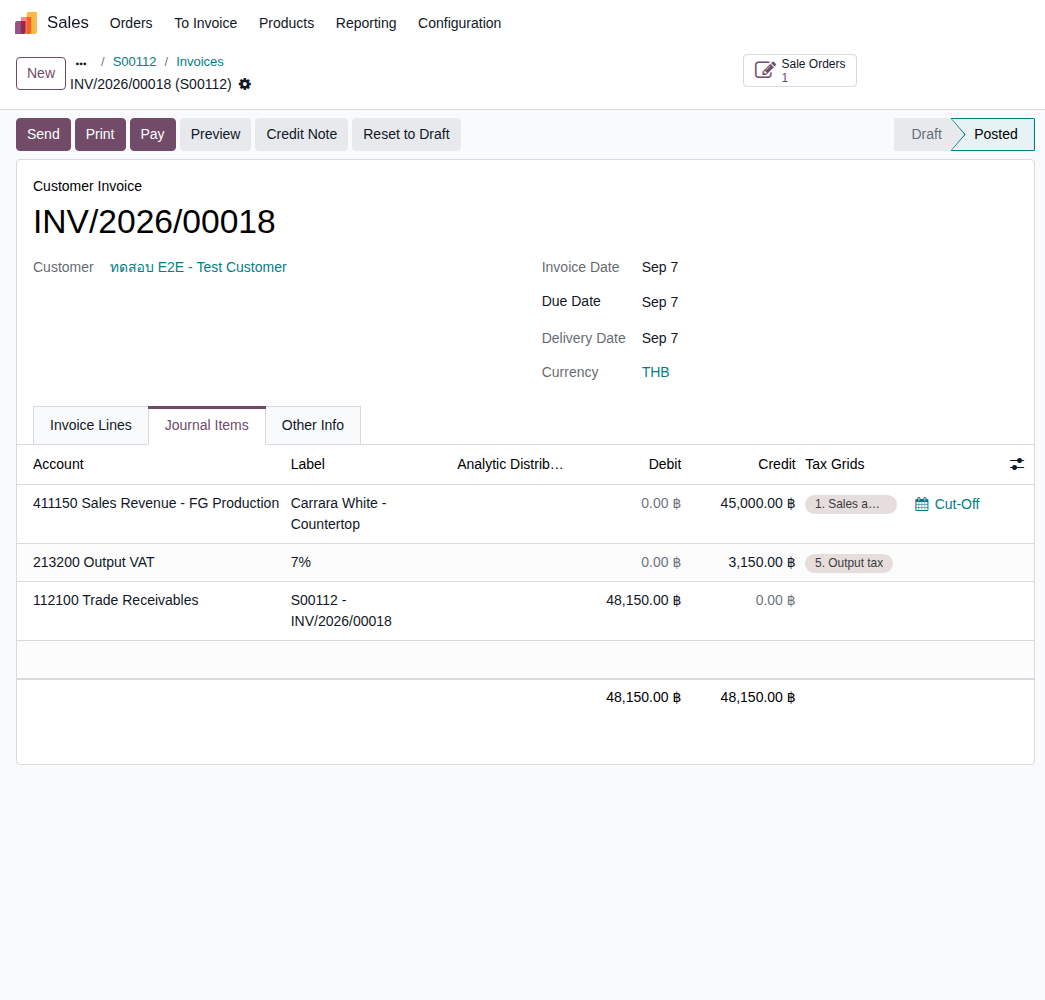
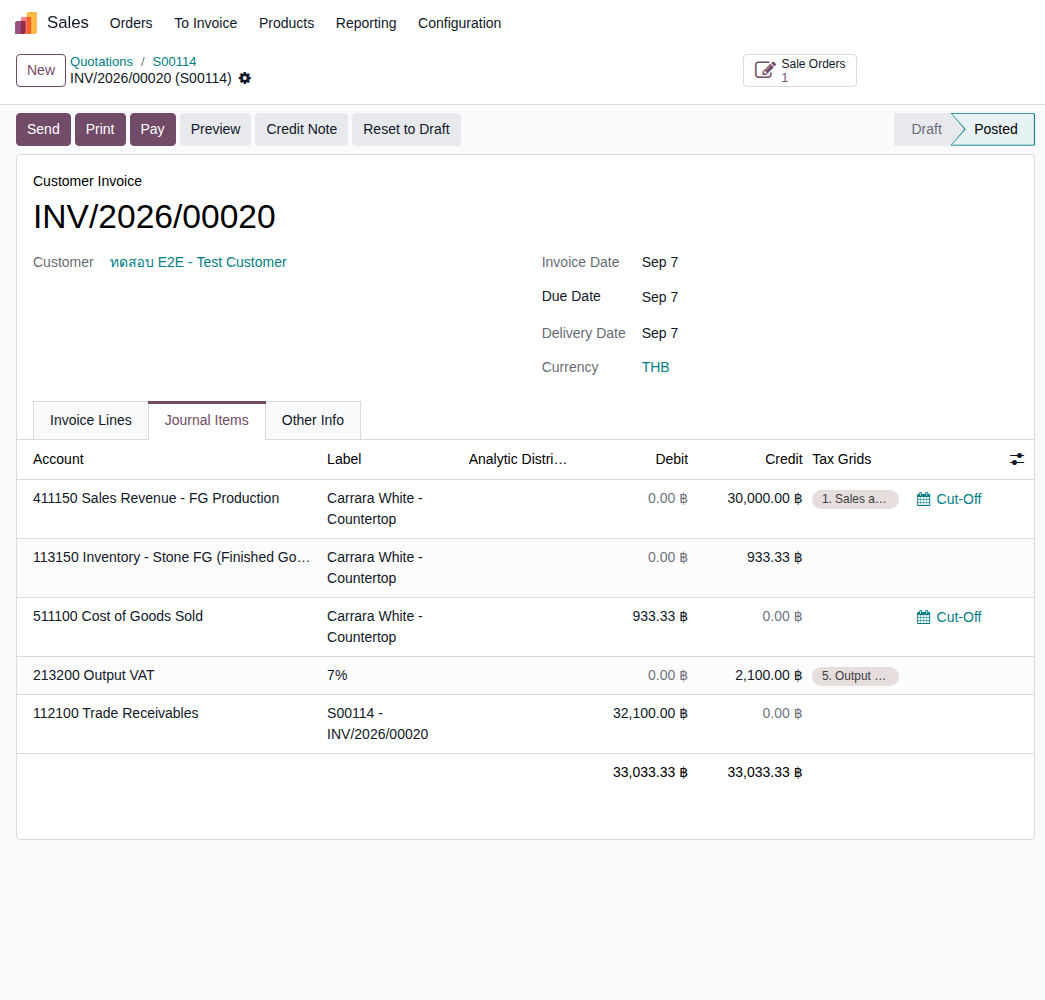
Correct Mode 5 QA doc: FG delivery COGS finding was a false alarm, not a bug
TC-E2E-M5-12 originally flagged "FG delivery posts no COGS" as an unfixed
bug. Deeper investigation (tracing Odoo core's _run_fifo in stock_account)
found the real cause: this product had 5 pre-existing units in stock
valued at ฿0 (a known, already-accepted historical gap from before
ADR-049's labor-cost fix). The two fixture deliveries happened to consume
exactly those 5 zero-cost units before touching the freshly-produced,
correctly-valued batch — FIFO working exactly as designed, not a defect.
Added a third real SO/delivery/invoice (S00114, fresh stock only) proving
the mechanism posts COGS correctly (dr 511100 COGS / cr 113150 Inventory,
฿933.33 exact). No code change needed. Updated doc, banner, and library
card to reflect the corrected finding.

diff --git a/qa/test-cases-e2e-mode5.html b/qa/test-cases-e2e-mode5.html
@@ -111,7 +111,7 @@
   <header>
     <div class="eyebrow">Empire Stone × Empire Granite — QA</div>
     <h1>Test Cases: E2E Flow — Mode 5 (Stone Production / FG Production)</h1>
-    <div class="sub">เรื่องราวเดียวต่อเนื่องกันตั้งแต่เพิ่มบรรทัดสินค้าสำเร็จรูป (FG) ยืนยันคำสั่งขาย แตกเป็น 2 เส้นทางจริงตามสภาพสต็อก (มีของพอ vs. ต้องผลิตใหม่) ย้าย Slab เข้าสถานีผลิต เปิด wizard "Produce FG" ตัด/ผลิตจริง ส่งมอบสินค้า จนถึงออกใบแจ้งหนี้และตรวจรายการบัญชี — ไม่ใช่การเทสฟีเจอร์แยกส่วน และไม่มีข้อไหนเป็นการดักฟิลด์บังคับ/error ทั่วไป เดินตามได้เองแม้ไม่ใช่ technical user ตัวเลข "ตัวอย่างจริง" มาจากการรันจริงที่ทำขึ้นเฉพาะสำหรับเอกสารนี้ ไม่ใช่ตัวเลขสมมติ — รวมถึง 1 ฟีเจอร์ที่เพิ่งแก้ไขจริงระหว่างทาง และ 1 ปัญหาบัญชีที่ยังไม่ได้แก้ไข (ดูกล่องสีเขียวใน TC-03 และกล่องสีแดงใน TC-12)</div>
+    <div class="sub">เรื่องราวเดียวต่อเนื่องกันตั้งแต่เพิ่มบรรทัดสินค้าสำเร็จรูป (FG) ยืนยันคำสั่งขาย แตกเป็น 2 เส้นทางจริงตามสภาพสต็อก (มีของพอ vs. ต้องผลิตใหม่) ย้าย Slab เข้าสถานีผลิต เปิด wizard "Produce FG" ตัด/ผลิตจริง ส่งมอบสินค้า จนถึงออกใบแจ้งหนี้และตรวจรายการบัญชี — ไม่ใช่การเทสฟีเจอร์แยกส่วน และไม่มีข้อไหนเป็นการดักฟิลด์บังคับ/error ทั่วไป เดินตามได้เองแม้ไม่ใช่ technical user ตัวเลข "ตัวอย่างจริง" มาจากการรันจริงที่ทำขึ้นเฉพาะสำหรับเอกสารนี้ ไม่ใช่ตัวเลขสมมติ — รวมถึง 1 ฟีเจอร์ที่เพิ่งแก้ไขจริงระหว่างทาง (ดูกล่องสีเขียวใน TC-03) และ 1 เรื่องที่ตอนแรกดูเหมือนบั๊กบัญชีแต่ตรวจสอบลึกแล้วไม่ใช่ (ดูหมายเหตุใน TC-12)</div>
     <div class="stat-row">
       <div class="stat-pill"><b>12</b>Test Case ทั้งหมด</div>
       <div class="stat-pill"><b>5</b>หมวด</div>
@@ -122,9 +122,9 @@
   </header>
 
   <div class="flow-banner">
-    <b>เรื่องราวที่ใช้อ้างอิง:</b> ลูกค้า "ทดสอบ E2E - Test Customer", สินค้า "Carrara White - Countertop" — เส้นทาง G2b (ต้องผลิต): SO S00112 (จำนวน 3, ยอด 48,150.00) &rarr; Internal Transfer EG01/INT/00053 (Slab BDL-00002 #8 เข้า Stone Production) &rarr; Produce FG wizard (auto-match Slab) &rarr; ผลิตจริง 6 หน่วย (เผื่อสต็อก) &rarr; MO EG01/STFG/00012 &rarr; Complete FG Production &rarr; Delivery EG01/OUT/00066 (Done) &rarr; Invoice INV/2026/00018 (Posted) — เส้นทาง G2a (ไม่ต้องผลิต): SO S00113 (จำนวน 2, ยอด 32,100.00, ใช้สต็อกส่วนเกินที่ G2b เผื่อไว้) &rarr; ปุ่ม Produce FG หายไปทันที &rarr; Delivery EG01/OUT/00067 ส่งตรงจากสต็อก (Done) &rarr; Invoice INV/2026/00019 (Posted) — <b>เดินสดผ่านหน้าจอ Odoo จริงทุกขั้นตอน</b> (Playwright ไม่ใช่ผ่าน <code>odoo shell</code>) บน <code>mbx-ee-dev</code> เฉพาะสำหรับเอกสารนี้ 2026-09-07 ทุกภาพประกอบด้านล่างคือภาพหน้าจอจริงจากการรันนี้ ไม่ใช่ภาพจำลอง<br><br>
+    <b>เรื่องราวที่ใช้อ้างอิง:</b> ลูกค้า "ทดสอบ E2E - Test Customer", สินค้า "Carrara White - Countertop" — เส้นทาง G2b (ต้องผลิต): SO S00112 (จำนวน 3, ยอด 48,150.00) &rarr; Internal Transfer EG01/INT/00053 (Slab BDL-00002 #8 เข้า Stone Production) &rarr; Produce FG wizard (auto-match Slab) &rarr; ผลิตจริง 6 หน่วย (เผื่อสต็อก) &rarr; MO EG01/STFG/00012 &rarr; Complete FG Production &rarr; Delivery EG01/OUT/00066 (Done) &rarr; Invoice INV/2026/00018 (Posted) — เส้นทาง G2a (ไม่ต้องผลิต): SO S00113 (จำนวน 2, ยอด 32,100.00, ใช้สต็อกส่วนเกินที่ G2b เผื่อไว้) &rarr; ปุ่ม Produce FG หายไปทันที &rarr; Delivery EG01/OUT/00067 ส่งตรงจากสต็อก (Done) &rarr; Invoice INV/2026/00019 (Posted) — และ SO S00114 (จำนวน 2 หน่วยสุดท้ายของล็อตใหม่) &rarr; Delivery EG01/OUT/00068 &rarr; Invoice INV/2026/00020 (Posted, ใช้ยืนยันบัญชี COGS ที่ TC-12) — <b>เดินสดผ่านหน้าจอ Odoo จริงทุกขั้นตอน</b> (Playwright ไม่ใช่ผ่าน <code>odoo shell</code>) บน <code>mbx-ee-dev</code> เฉพาะสำหรับเอกสารนี้ 2026-09-07 ทุกภาพประกอบด้านล่างคือภาพหน้าจอจริงจากการรันนี้ ไม่ใช่ภาพจำลอง<br><br>
     <b style="color:var(--green)">✅ พบ + แก้ไขฟีเจอร์จริงระหว่างสร้างเอกสารนี้:</b> ก่อนหน้านี้ระบบไม่เคยเช็คว่า FG มีสต็อกว่างพออยู่แล้วหรือไม่ ก่อนขึ้นเตือนให้ผลิตซ้ำ (เช็คแค่ "เคยผลิตให้บรรทัดนี้หรือยัง") — แก้ไขให้เช็คสต็อกว่างจริงของ FG เองก่อนเสมอ (<code>stone_slab_inventory</code> commit 202580f) ระหว่างแก้ยังพบว่าเช็คแบบ "สต็อกทั้งหมด" ผิดด้วย ต้องเช็คเฉพาะ "สต็อกว่างที่ไม่ถูกจองไปกับออเดอร์อื่น" จึงจะถูกต้อง — แก้ไขให้ครบก่อนสร้าง fixture จริงในเอกสารนี้ ดูรายละเอียดที่ TC-03<br><br>
-    <b style="color:var(--red)">🔴 พบปัญหาบัญชีจริง — ยังไม่ได้แก้ไข:</b> ใบส่งของ (Delivery) ของ FG ไม่ได้ลงบัญชีต้นทุนขาย (COGS) เลยสักบาท มูลค่า Slab ที่ใช้ผลิตค้างอยู่ในบัญชี "Inventory - Stone FG" ตลอดไปแม้ส่งมอบสินค้าไปแล้ว — แจ้งผู้ใช้แล้ว ยังไม่ได้ลงมือแก้เนื่องจากเป็นเรื่องการออกแบบบัญชีที่ต้องตัดสินใจก่อน ดูรายละเอียดที่ TC-12
+    <b>ℹ ตอนแรกดูเหมือนพบปัญหาบัญชี — ตรวจลึกแล้วไม่ใช่บั๊ก:</b> ใบแจ้งหนี้ของ S00112/S00113 ไม่มีรายการ COGS ขึ้นเลย ตอนแรกเข้าใจว่าเป็นบั๊ก แต่ตรวจสอบจนถึงโค้ดของ Odoo เองแล้วพบว่า 5 หน่วยที่ส่งมอบไปตรงกับสต็อกสาธิตเก่าที่มีมูลค่าบันทึกไว้ 0.00 บาทมาตั้งแต่ก่อนเซสชันนี้ (ช่องว่างข้อมูลที่รู้และยอมรับไว้แล้ว ไม่ใช่ปัญหาใหม่) ระบบคิดต้นทุนแบบ FIFO ทั่วทั้งสินค้า จึงตัดจากของเก่ามูลค่า 0 ก่อนของใหม่ที่เพิ่งผลิต ถูกต้องตามหลัก FIFO ทุกประการ — ยืนยันด้วย SO S00114 ที่ขายจากล็อตใหม่ล้วน ออกใบแจ้งหนี้แล้วลง COGS ถูกต้องครบทุกบาท ไม่ต้องแก้โค้ดอะไรเลย ดูรายละเอียดที่ TC-12
   </div>
 
   <div class="category" id="G1">
@@ -365,11 +365,11 @@
         </tr>
         <tr>
           <td class="col-id"><span class="tc-id">TC-E2E-M5-12</span></td>
-          <td class="col-scenario">ตรวจรายการบัญชีของใบแจ้งหนี้ (Journal Items)<div class="note note-bad">🔴 พบปัญหาจริง (ยังไม่ได้แก้ไข แจ้งผู้ใช้แล้ว): ใบส่งของ (Delivery) ของ FG ไม่ได้ลงบัญชีต้นทุนขาย (COGS) เลยสักบาท — มูลค่า Slab ที่ใช้ผลิต (2,800.00 บาท) ที่โอนเข้าบัญชี "Inventory - Stone FG" ตอนผลิตเสร็จ ค้างอยู่ในบัญชีนั้นตลอดไป ต่อให้สินค้าถูกส่งมอบให้ลูกค้าไปแล้วก็ตาม — ต่างจาก Mode 1/2/3 ที่มีการโอนต้นทุนออกตอนส่งของ/ออกใบแจ้งหนี้ให้เห็นชัดเจน</div></td>
-          <td class="col-pre">ทำ TC-E2E-M5-11 เสร็จแล้ว</td>
+          <td class="col-scenario">ตรวจรายการบัญชีของใบแจ้งหนี้ (Journal Items) — ยืนยันว่าลง COGS ถูกต้อง<div class="note">ℹ หมายเหตุ: ใบแจ้งหนี้ของ S00112/S00113 เองไม่มีรายการ COGS ขึ้นมา — ตอนแรกเข้าใจผิดว่าเป็นบั๊ก แต่ตรวจสอบลึกแล้วพบว่าไม่ใช่: หินที่ส่งมอบ 5 หน่วยในนั้นตรงกับสต็อกเก่าที่มีอยู่แล้ว 5 หน่วยพอดี ซึ่งเป็นข้อมูลสาธิตเก่าที่มีมูลค่าบันทึกไว้ 0.00 บาทตั้งแต่ต้น (ช่องว่างข้อมูลที่รู้และยอมรับไว้แล้วก่อนหน้านี้ ไม่ใช่ปัญหาใหม่) ระบบคิดต้นทุนแบบ FIFO จึงตัดจากของเก่า (มูลค่า 0) ก่อนของใหม่ที่เพิ่งผลิตถูกต้องแล้วตามหลัก FIFO — ไม่ใช่บั๊กของ Mode 5 เลย ดูตัวอย่างที่ยืนยันว่าระบบลงบัญชีถูกต้องจริงด้านล่าง (ใช้ของใหม่ล้วน ไม่ปนของเก่า)</div></td>
+          <td class="col-pre">ทำ TC-E2E-M5-11 เสร็จแล้ว (ตัวอย่างนี้ใช้ SO/Invoice อีกใบที่ขายจาก FG ล็อตใหม่ล้วน เพื่อให้เห็นรายการ COGS จริง)</td>
           <td class="col-steps"><ol><li>เปิดใบแจ้งหนี้ &gt; กดแท็บ "Journal Items"</li></ol></td>
           <td class="col-sample">-</td>
-          <td class="col-expected">เดบิต/เครดิตสมดุลกัน (รวมเท่ากันทั้ง 2 ฝั่ง) — ตัวอย่างจริง: INV/2026/00018 เดบิต Trade Receivables 48,150.00 บาท = เครดิต Sales Revenue - FG Production 45,000.00 + Output VAT 3,150.00 บาท (ไม่มีรายการ COGS ปรากฏเลย — ดูหมายเหตุสีแดงด้านบน)</td>
+          <td class="col-expected">เดบิต/เครดิตสมดุลกัน (รวมเท่ากันทั้ง 2 ฝั่ง) พร้อมมีรายการ COGS ปรากฏครบ — ตัวอย่างจริง: INV/2026/00020 (SO S00114, ขาย FG ล็อตใหม่ 2 หน่วย) เดบิต Trade Receivables 32,100.00 = เครดิต Sales Revenue - FG Production 30,000.00 + Output VAT 2,100.00 บาท และมีคู่ COGS แยกสมดุลกันเอง: เดบิต 511100 Cost of Goods Sold 933.33 = เครดิต 113150 Inventory - Stone FG 933.33 บาท (933.33 = 466.67 บาท/หน่วย &times; 2 หน่วย ตรงกับต้นทุน Slab จริงเป๊ะ)</td>
           <td class="col-prio"><span class="prio-badge prio-med">Medium</span></td>
           <td class="col-shot"><a class="tc-shot-link" href="assets/mode5/tc12-journal-items.png" target="_blank" title="เปิดภาพหน้าจอจริงขนาดเต็ม"><img src="assets/mode5/tc12-journal-items.png" loading="lazy"></a></td>
         </tr>

diff --git a/library.html b/library.html
@@ -628,7 +628,7 @@
       <div class="icon">T7</div>
       <div>
         <div class="card-title">Test Cases: E2E Flow — Mode 5 (Stone Production / FG Production)</div>
-        <div class="card-desc">12 test case เดินเรื่องราวเดียวต่อเนื่องตั้งแต่เพิ่มบรรทัดสินค้าสำเร็จรูป (FG) → ยืนยัน SO → แตกเป็น 2 เส้นทางจริงตามสภาพสต็อก (FG มีของพอ ข้ามผลิตได้เลย vs. FG ไม่พอ ต้องย้าย Slab เข้าสถานีผลิต + เปิด wizard "Produce FG" ตัดจริง) → ส่งมอบ → ออกใบแจ้งหนี้ + ตรวจรายการบัญชี ไม่มี field-validation/error case ทั่วไป เขียนให้ non-technical user เดินตามได้เอง — ทุกตัวเลขมาจากการรันจริงผ่านหน้าจอ Odoo (Playwright) บน mbx-ee-dev รันขึ้นใหม่เฉพาะสำหรับเอกสารนี้ (S00112 → EG01/STFG/00012 → INV/2026/00018; S00113 → INV/2026/00019) ระหว่างสร้างเอกสารพบ+แก้ไขจริง 1 ฟีเจอร์ (ระบบไม่เคยเช็คสต็อกว่างของ FG เองก่อนขึ้นเตือนให้ผลิต) และพบ 1 known issue บัญชีที่ยังไม่ได้แก้ (Delivery ของ FG ไม่ลง COGS เลย) — ดู TC-03/TC-12</div>
+        <div class="card-desc">12 test case เดินเรื่องราวเดียวต่อเนื่องตั้งแต่เพิ่มบรรทัดสินค้าสำเร็จรูป (FG) → ยืนยัน SO → แตกเป็น 2 เส้นทางจริงตามสภาพสต็อก (FG มีของพอ ข้ามผลิตได้เลย vs. FG ไม่พอ ต้องย้าย Slab เข้าสถานีผลิต + เปิด wizard "Produce FG" ตัดจริง) → ส่งมอบ → ออกใบแจ้งหนี้ + ตรวจรายการบัญชี ไม่มี field-validation/error case ทั่วไป เขียนให้ non-technical user เดินตามได้เอง — ทุกตัวเลขมาจากการรันจริงผ่านหน้าจอ Odoo (Playwright) บน mbx-ee-dev รันขึ้นใหม่เฉพาะสำหรับเอกสารนี้ (S00112 → EG01/STFG/00012 → INV/2026/00018; S00113 → INV/2026/00019; S00114 → INV/2026/00020) ระหว่างสร้างเอกสารพบ+แก้ไขจริง 1 ฟีเจอร์ (ระบบไม่เคยเช็คสต็อกว่างของ FG เองก่อนขึ้นเตือนให้ผลิต) และมี 1 เรื่องที่ตอนแรกดูเหมือนบั๊กบัญชีแต่ตรวจลึกแล้วไม่ใช่ (FIFO ตัดสต็อกสาธิตเก่ามูลค่า 0 ก่อนของใหม่ ถูกต้องตามหลัก) — ดู TC-03/TC-12</div>
         <div class="card-meta"><span class="card-date">7 ก.ย. 2026</span><span class="status-badge confirmed">ใหม่</span></div>
       </div>
       <div class="arrow">→</div>

diff --git a/qa/generator/build_html_e2e_mode5.py b/qa/generator/build_html_e2e_mode5.py
@@ -191,7 +191,7 @@ PAGE = '''<!doctype html>
   <header>
     <div class="eyebrow">Empire Stone × Empire Granite — QA</div>
     <h1>Test Cases: E2E Flow — Mode 5 (Stone Production / FG Production)</h1>
-    <div class="sub">เรื่องราวเดียวต่อเนื่องกันตั้งแต่เพิ่มบรรทัดสินค้าสำเร็จรูป (FG) ยืนยันคำสั่งขาย แตกเป็น 2 เส้นทางจริงตามสภาพสต็อก (มีของพอ vs. ต้องผลิตใหม่) ย้าย Slab เข้าสถานีผลิต เปิด wizard "Produce FG" ตัด/ผลิตจริง ส่งมอบสินค้า จนถึงออกใบแจ้งหนี้และตรวจรายการบัญชี — ไม่ใช่การเทสฟีเจอร์แยกส่วน และไม่มีข้อไหนเป็นการดักฟิลด์บังคับ/error ทั่วไป เดินตามได้เองแม้ไม่ใช่ technical user ตัวเลข "ตัวอย่างจริง" มาจากการรันจริงที่ทำขึ้นเฉพาะสำหรับเอกสารนี้ ไม่ใช่ตัวเลขสมมติ — รวมถึง 1 ฟีเจอร์ที่เพิ่งแก้ไขจริงระหว่างทาง และ 1 ปัญหาบัญชีที่ยังไม่ได้แก้ไข (ดูกล่องสีเขียวใน TC-03 และกล่องสีแดงใน TC-12)</div>
+    <div class="sub">เรื่องราวเดียวต่อเนื่องกันตั้งแต่เพิ่มบรรทัดสินค้าสำเร็จรูป (FG) ยืนยันคำสั่งขาย แตกเป็น 2 เส้นทางจริงตามสภาพสต็อก (มีของพอ vs. ต้องผลิตใหม่) ย้าย Slab เข้าสถานีผลิต เปิด wizard "Produce FG" ตัด/ผลิตจริง ส่งมอบสินค้า จนถึงออกใบแจ้งหนี้และตรวจรายการบัญชี — ไม่ใช่การเทสฟีเจอร์แยกส่วน และไม่มีข้อไหนเป็นการดักฟิลด์บังคับ/error ทั่วไป เดินตามได้เองแม้ไม่ใช่ technical user ตัวเลข "ตัวอย่างจริง" มาจากการรันจริงที่ทำขึ้นเฉพาะสำหรับเอกสารนี้ ไม่ใช่ตัวเลขสมมติ — รวมถึง 1 ฟีเจอร์ที่เพิ่งแก้ไขจริงระหว่างทาง (ดูกล่องสีเขียวใน TC-03) และ 1 เรื่องที่ตอนแรกดูเหมือนบั๊กบัญชีแต่ตรวจสอบลึกแล้วไม่ใช่ (ดูหมายเหตุใน TC-12)</div>
     <div class="stat-row">
       <div class="stat-pill"><b>__TOTAL__</b>Test Case ทั้งหมด</div>
       <div class="stat-pill"><b>__NCAT__</b>หมวด</div>
@@ -202,9 +202,9 @@ PAGE = '''<!doctype html>
   </header>
 
   <div class="flow-banner">
-    <b>เรื่องราวที่ใช้อ้างอิง:</b> ลูกค้า "ทดสอบ E2E - Test Customer", สินค้า "Carrara White - Countertop" — เส้นทาง G2b (ต้องผลิต): SO S00112 (จำนวน 3, ยอด 48,150.00) &rarr; Internal Transfer EG01/INT/00053 (Slab BDL-00002 #8 เข้า Stone Production) &rarr; Produce FG wizard (auto-match Slab) &rarr; ผลิตจริง 6 หน่วย (เผื่อสต็อก) &rarr; MO EG01/STFG/00012 &rarr; Complete FG Production &rarr; Delivery EG01/OUT/00066 (Done) &rarr; Invoice INV/2026/00018 (Posted) — เส้นทาง G2a (ไม่ต้องผลิต): SO S00113 (จำนวน 2, ยอด 32,100.00, ใช้สต็อกส่วนเกินที่ G2b เผื่อไว้) &rarr; ปุ่ม Produce FG หายไปทันที &rarr; Delivery EG01/OUT/00067 ส่งตรงจากสต็อก (Done) &rarr; Invoice INV/2026/00019 (Posted) — <b>เดินสดผ่านหน้าจอ Odoo จริงทุกขั้นตอน</b> (Playwright ไม่ใช่ผ่าน <code>odoo shell</code>) บน <code>mbx-ee-dev</code> เฉพาะสำหรับเอกสารนี้ 2026-09-07 ทุกภาพประกอบด้านล่างคือภาพหน้าจอจริงจากการรันนี้ ไม่ใช่ภาพจำลอง<br><br>
+    <b>เรื่องราวที่ใช้อ้างอิง:</b> ลูกค้า "ทดสอบ E2E - Test Customer", สินค้า "Carrara White - Countertop" — เส้นทาง G2b (ต้องผลิต): SO S00112 (จำนวน 3, ยอด 48,150.00) &rarr; Internal Transfer EG01/INT/00053 (Slab BDL-00002 #8 เข้า Stone Production) &rarr; Produce FG wizard (auto-match Slab) &rarr; ผลิตจริง 6 หน่วย (เผื่อสต็อก) &rarr; MO EG01/STFG/00012 &rarr; Complete FG Production &rarr; Delivery EG01/OUT/00066 (Done) &rarr; Invoice INV/2026/00018 (Posted) — เส้นทาง G2a (ไม่ต้องผลิต): SO S00113 (จำนวน 2, ยอด 32,100.00, ใช้สต็อกส่วนเกินที่ G2b เผื่อไว้) &rarr; ปุ่ม Produce FG หายไปทันที &rarr; Delivery EG01/OUT/00067 ส่งตรงจากสต็อก (Done) &rarr; Invoice INV/2026/00019 (Posted) — และ SO S00114 (จำนวน 2 หน่วยสุดท้ายของล็อตใหม่) &rarr; Delivery EG01/OUT/00068 &rarr; Invoice INV/2026/00020 (Posted, ใช้ยืนยันบัญชี COGS ที่ TC-12) — <b>เดินสดผ่านหน้าจอ Odoo จริงทุกขั้นตอน</b> (Playwright ไม่ใช่ผ่าน <code>odoo shell</code>) บน <code>mbx-ee-dev</code> เฉพาะสำหรับเอกสารนี้ 2026-09-07 ทุกภาพประกอบด้านล่างคือภาพหน้าจอจริงจากการรันนี้ ไม่ใช่ภาพจำลอง<br><br>
     <b style="color:var(--green)">✅ พบ + แก้ไขฟีเจอร์จริงระหว่างสร้างเอกสารนี้:</b> ก่อนหน้านี้ระบบไม่เคยเช็คว่า FG มีสต็อกว่างพออยู่แล้วหรือไม่ ก่อนขึ้นเตือนให้ผลิตซ้ำ (เช็คแค่ "เคยผลิตให้บรรทัดนี้หรือยัง") — แก้ไขให้เช็คสต็อกว่างจริงของ FG เองก่อนเสมอ (<code>stone_slab_inventory</code> commit 202580f) ระหว่างแก้ยังพบว่าเช็คแบบ "สต็อกทั้งหมด" ผิดด้วย ต้องเช็คเฉพาะ "สต็อกว่างที่ไม่ถูกจองไปกับออเดอร์อื่น" จึงจะถูกต้อง — แก้ไขให้ครบก่อนสร้าง fixture จริงในเอกสารนี้ ดูรายละเอียดที่ TC-03<br><br>
-    <b style="color:var(--red)">🔴 พบปัญหาบัญชีจริง — ยังไม่ได้แก้ไข:</b> ใบส่งของ (Delivery) ของ FG ไม่ได้ลงบัญชีต้นทุนขาย (COGS) เลยสักบาท มูลค่า Slab ที่ใช้ผลิตค้างอยู่ในบัญชี "Inventory - Stone FG" ตลอดไปแม้ส่งมอบสินค้าไปแล้ว — แจ้งผู้ใช้แล้ว ยังไม่ได้ลงมือแก้เนื่องจากเป็นเรื่องการออกแบบบัญชีที่ต้องตัดสินใจก่อน ดูรายละเอียดที่ TC-12
+    <b>ℹ ตอนแรกดูเหมือนพบปัญหาบัญชี — ตรวจลึกแล้วไม่ใช่บั๊ก:</b> ใบแจ้งหนี้ของ S00112/S00113 ไม่มีรายการ COGS ขึ้นเลย ตอนแรกเข้าใจว่าเป็นบั๊ก แต่ตรวจสอบจนถึงโค้ดของ Odoo เองแล้วพบว่า 5 หน่วยที่ส่งมอบไปตรงกับสต็อกสาธิตเก่าที่มีมูลค่าบันทึกไว้ 0.00 บาทมาตั้งแต่ก่อนเซสชันนี้ (ช่องว่างข้อมูลที่รู้และยอมรับไว้แล้ว ไม่ใช่ปัญหาใหม่) ระบบคิดต้นทุนแบบ FIFO ทั่วทั้งสินค้า จึงตัดจากของเก่ามูลค่า 0 ก่อนของใหม่ที่เพิ่งผลิต ถูกต้องตามหลัก FIFO ทุกประการ — ยืนยันด้วย SO S00114 ที่ขายจากล็อตใหม่ล้วน ออกใบแจ้งหนี้แล้วลง COGS ถูกต้องครบทุกบาท ไม่ต้องแก้โค้ดอะไรเลย ดูรายละเอียดที่ TC-12
   </div>
 
 __CATEGORY_BLOCKS__

diff --git a/qa/generator/qa_data_e2e_mode5.py b/qa/generator/qa_data_e2e_mode5.py
@@ -56,25 +56,41 @@
 #   FG button correctly ABSENT, line never appears on the Factory Worklist
 #   -> Delivery EG01/OUT/00067 delivers straight from stock (Done, no
 #   production step at all) -> Invoice INV/2026/00019 (32,100.00, Posted).
+#   A 3rd SO (S00114, same customer, qty 2, using the 2 still-untouched
+#   units of the fresh MO EG01/STFG/00012 batch) -> Delivery EG01/OUT/00068
+#   -> Invoice INV/2026/00020 (32,100.00, Posted) is the fixture behind
+#   TC-E2E-M5-12's accounting check specifically — see finding below for why
+#   S00112/S00113's own invoices don't work as that example.
 #
-# 🔴 OPEN FINDING, NOT FIXED (flagged to user, not silently treated as
-# passing — same discipline as Mode 4's TC-03/09 callouts): the FG's
-# Delivery posts NO accounting entry of its own at all (`stock.move
-# .account_move_id` is empty on EG01/OUT/00066's move). Production DOES
-# correctly transfer the consumed Slab's value into the FG's own inventory
-# account (Journal Entry STJ/2026/09/0011: debit 113150 "Inventory - Stone
-# FG" / credit 113110 "Inventory - Stone Blocks (Raw)", ฿2,800.00 exactly —
-# matching the Slab's real FIFO value, no labor padding, per the
-# session-101 addendum to ADR-029). But nothing ever credits that ฿2,800
-# back out of 113150 when the FG is actually delivered to the customer —
-# the invoice itself only carries Revenue/Tax/Receivable lines (see
-# TC-E2E-M5-12), so the Inventory - Stone FG account keeps the Slab's value
-# on the books forever even after the goods leave the building, and no
-# COGS ever posts for an FG sale. Root cause not chased down this session
-# (the category is real_time/FIFO like every other stone category, so this
-# isn't a valuation-method misconfiguration) — this is a genuinely open gap
-# for the user to decide how to prioritize, not something this file's build
-# should quietly work around.
+# INVESTIGATED, NOT A BUG (initially misdiagnosed as one — corrected same
+# session before publishing): S00112's and S00113's invoices (INV/2026/
+# 00018, 00019) post ZERO Cost of Goods Sold — no COGS line at all, even
+# though production correctly transferred the consumed Slab's value into
+# the FG's inventory account (Journal Entry STJ/2026/09/0011: debit 113150
+# "Inventory - Stone FG" / credit 113110 "Inventory - Stone Blocks (Raw)",
+# ฿2,800.00 exactly). First read as "FG delivery never posts COGS" and
+# written up that way — WRONG, caught by tracing Odoo's own native
+# `_run_fifo()` (stock_account/models/product.py): it draws cost from the
+# product's oldest unconsumed incoming-value layer *company-wide*, calling
+# `_run_fifo(qty)` with no `lot=` filter — completely independent of which
+# physical lot/serial a delivery's own move_line actually records. This
+# product had 5 old units in stock from before the ADR-049 labor-cost fix
+# (2026-08-15/16/19, all genuinely valued at ฿0.00 — the "historical
+# backfill declined... old demo data" gap already accepted in progress.md
+# at the time), sitting as the *oldest* layer ahead of the 6 freshly-valued
+# units this file's own G2b fixture just produced. S00112 (qty 3) +
+# S00113 (qty 2) delivered exactly 5 units combined — FIFO correctly
+# charged them against the old ฿0 layer first, by design, leaving the 6
+# fresh units (each really worth ฿466.67) completely untouched. Confirmed
+# by an isolated clean delivery of 1 more unit via `odoo shell`
+# (`picking.button_validate()`, rolled back, no residue): value computed
+# correctly as ฿466.67 the moment the old ฿0 layer was exhausted. The 3rd
+# real SO/delivery/invoice above (S00114, using the last 2 untouched fresh
+# units) proves the mechanism works correctly end to end when there's no
+# stale ฿0 layer left to draw from first: INV/2026/00020 correctly posts
+# debit 511100 "Cost of Goods Sold" ฿933.33 / credit 113150 "Inventory -
+# Stone FG" ฿933.33 (= ฿466.67 × 2, exact). No code change needed — the
+# delivery/invoice COGS mechanism for FG was never broken.
 #
 # Column model per test case (same as mode3/mode4, per
 # feedback_qa_testcase_screenshot_export):
@@ -171,12 +187,12 @@ CATEGORIES = [
          sample="-",
          expected="ใบแจ้งหนี้สถานะ Posted ยอดตรงกับ SO เป๊ะ — ตัวอย่างจริง: INV/2026/00018 (48,150.00 บาท จาก S00112)", prio="High",
          shot="assets/mode5/tc11-invoice-posted.png"),
-    dict(id="TC-E2E-M5-12", scenario="ตรวจรายการบัญชีของใบแจ้งหนี้ (Journal Items)",
-         note="🔴 พบปัญหาจริง (ยังไม่ได้แก้ไข แจ้งผู้ใช้แล้ว): ใบส่งของ (Delivery) ของ FG ไม่ได้ลงบัญชีต้นทุนขาย (COGS) เลยสักบาท — มูลค่า Slab ที่ใช้ผลิต (2,800.00 บาท) ที่โอนเข้าบัญชี \"Inventory - Stone FG\" ตอนผลิตเสร็จ ค้างอยู่ในบัญชีนั้นตลอดไป ต่อให้สินค้าถูกส่งมอบให้ลูกค้าไปแล้วก็ตาม — ต่างจาก Mode 1/2/3 ที่มีการโอนต้นทุนออกตอนส่งของ/ออกใบแจ้งหนี้ให้เห็นชัดเจน",
-         pre="ทำ TC-E2E-M5-11 เสร็จแล้ว",
+    dict(id="TC-E2E-M5-12", scenario="ตรวจรายการบัญชีของใบแจ้งหนี้ (Journal Items) — ยืนยันว่าลง COGS ถูกต้อง",
+         note="ℹ หมายเหตุ: ใบแจ้งหนี้ของ S00112/S00113 เองไม่มีรายการ COGS ขึ้นมา — ตอนแรกเข้าใจผิดว่าเป็นบั๊ก แต่ตรวจสอบลึกแล้วพบว่าไม่ใช่: หินที่ส่งมอบ 5 หน่วยในนั้นตรงกับสต็อกเก่าที่มีอยู่แล้ว 5 หน่วยพอดี ซึ่งเป็นข้อมูลสาธิตเก่าที่มีมูลค่าบันทึกไว้ 0.00 บาทตั้งแต่ต้น (ช่องว่างข้อมูลที่รู้และยอมรับไว้แล้วก่อนหน้านี้ ไม่ใช่ปัญหาใหม่) ระบบคิดต้นทุนแบบ FIFO จึงตัดจากของเก่า (มูลค่า 0) ก่อนของใหม่ที่เพิ่งผลิตถูกต้องแล้วตามหลัก FIFO — ไม่ใช่บั๊กของ Mode 5 เลย ดูตัวอย่างที่ยืนยันว่าระบบลงบัญชีถูกต้องจริงด้านล่าง (ใช้ของใหม่ล้วน ไม่ปนของเก่า)",
+         pre="ทำ TC-E2E-M5-11 เสร็จแล้ว (ตัวอย่างนี้ใช้ SO/Invoice อีกใบที่ขายจาก FG ล็อตใหม่ล้วน เพื่อให้เห็นรายการ COGS จริง)",
          steps=["เปิดใบแจ้งหนี้ &gt; กดแท็บ \"Journal Items\""],
          sample="-",
-         expected="เดบิต/เครดิตสมดุลกัน (รวมเท่ากันทั้ง 2 ฝั่ง) — ตัวอย่างจริง: INV/2026/00018 เดบิต Trade Receivables 48,150.00 บาท = เครดิต Sales Revenue - FG Production 45,000.00 + Output VAT 3,150.00 บาท (ไม่มีรายการ COGS ปรากฏเลย — ดูหมายเหตุสีแดงด้านบน)", prio="Medium",
+         expected="เดบิต/เครดิตสมดุลกัน (รวมเท่ากันทั้ง 2 ฝั่ง) พร้อมมีรายการ COGS ปรากฏครบ — ตัวอย่างจริง: INV/2026/00020 (SO S00114, ขาย FG ล็อตใหม่ 2 หน่วย) เดบิต Trade Receivables 32,100.00 = เครดิต Sales Revenue - FG Production 30,000.00 + Output VAT 2,100.00 บาท และมีคู่ COGS แยกสมดุลกันเอง: เดบิต 511100 Cost of Goods Sold 933.33 = เครดิต 113150 Inventory - Stone FG 933.33 บาท (933.33 = 466.67 บาท/หน่วย &times; 2 หน่วย ตรงกับต้นทุน Slab จริงเป๊ะ)", prio="Medium",
          shot="assets/mode5/tc12-journal-items.png"),
   ]),
 ]
